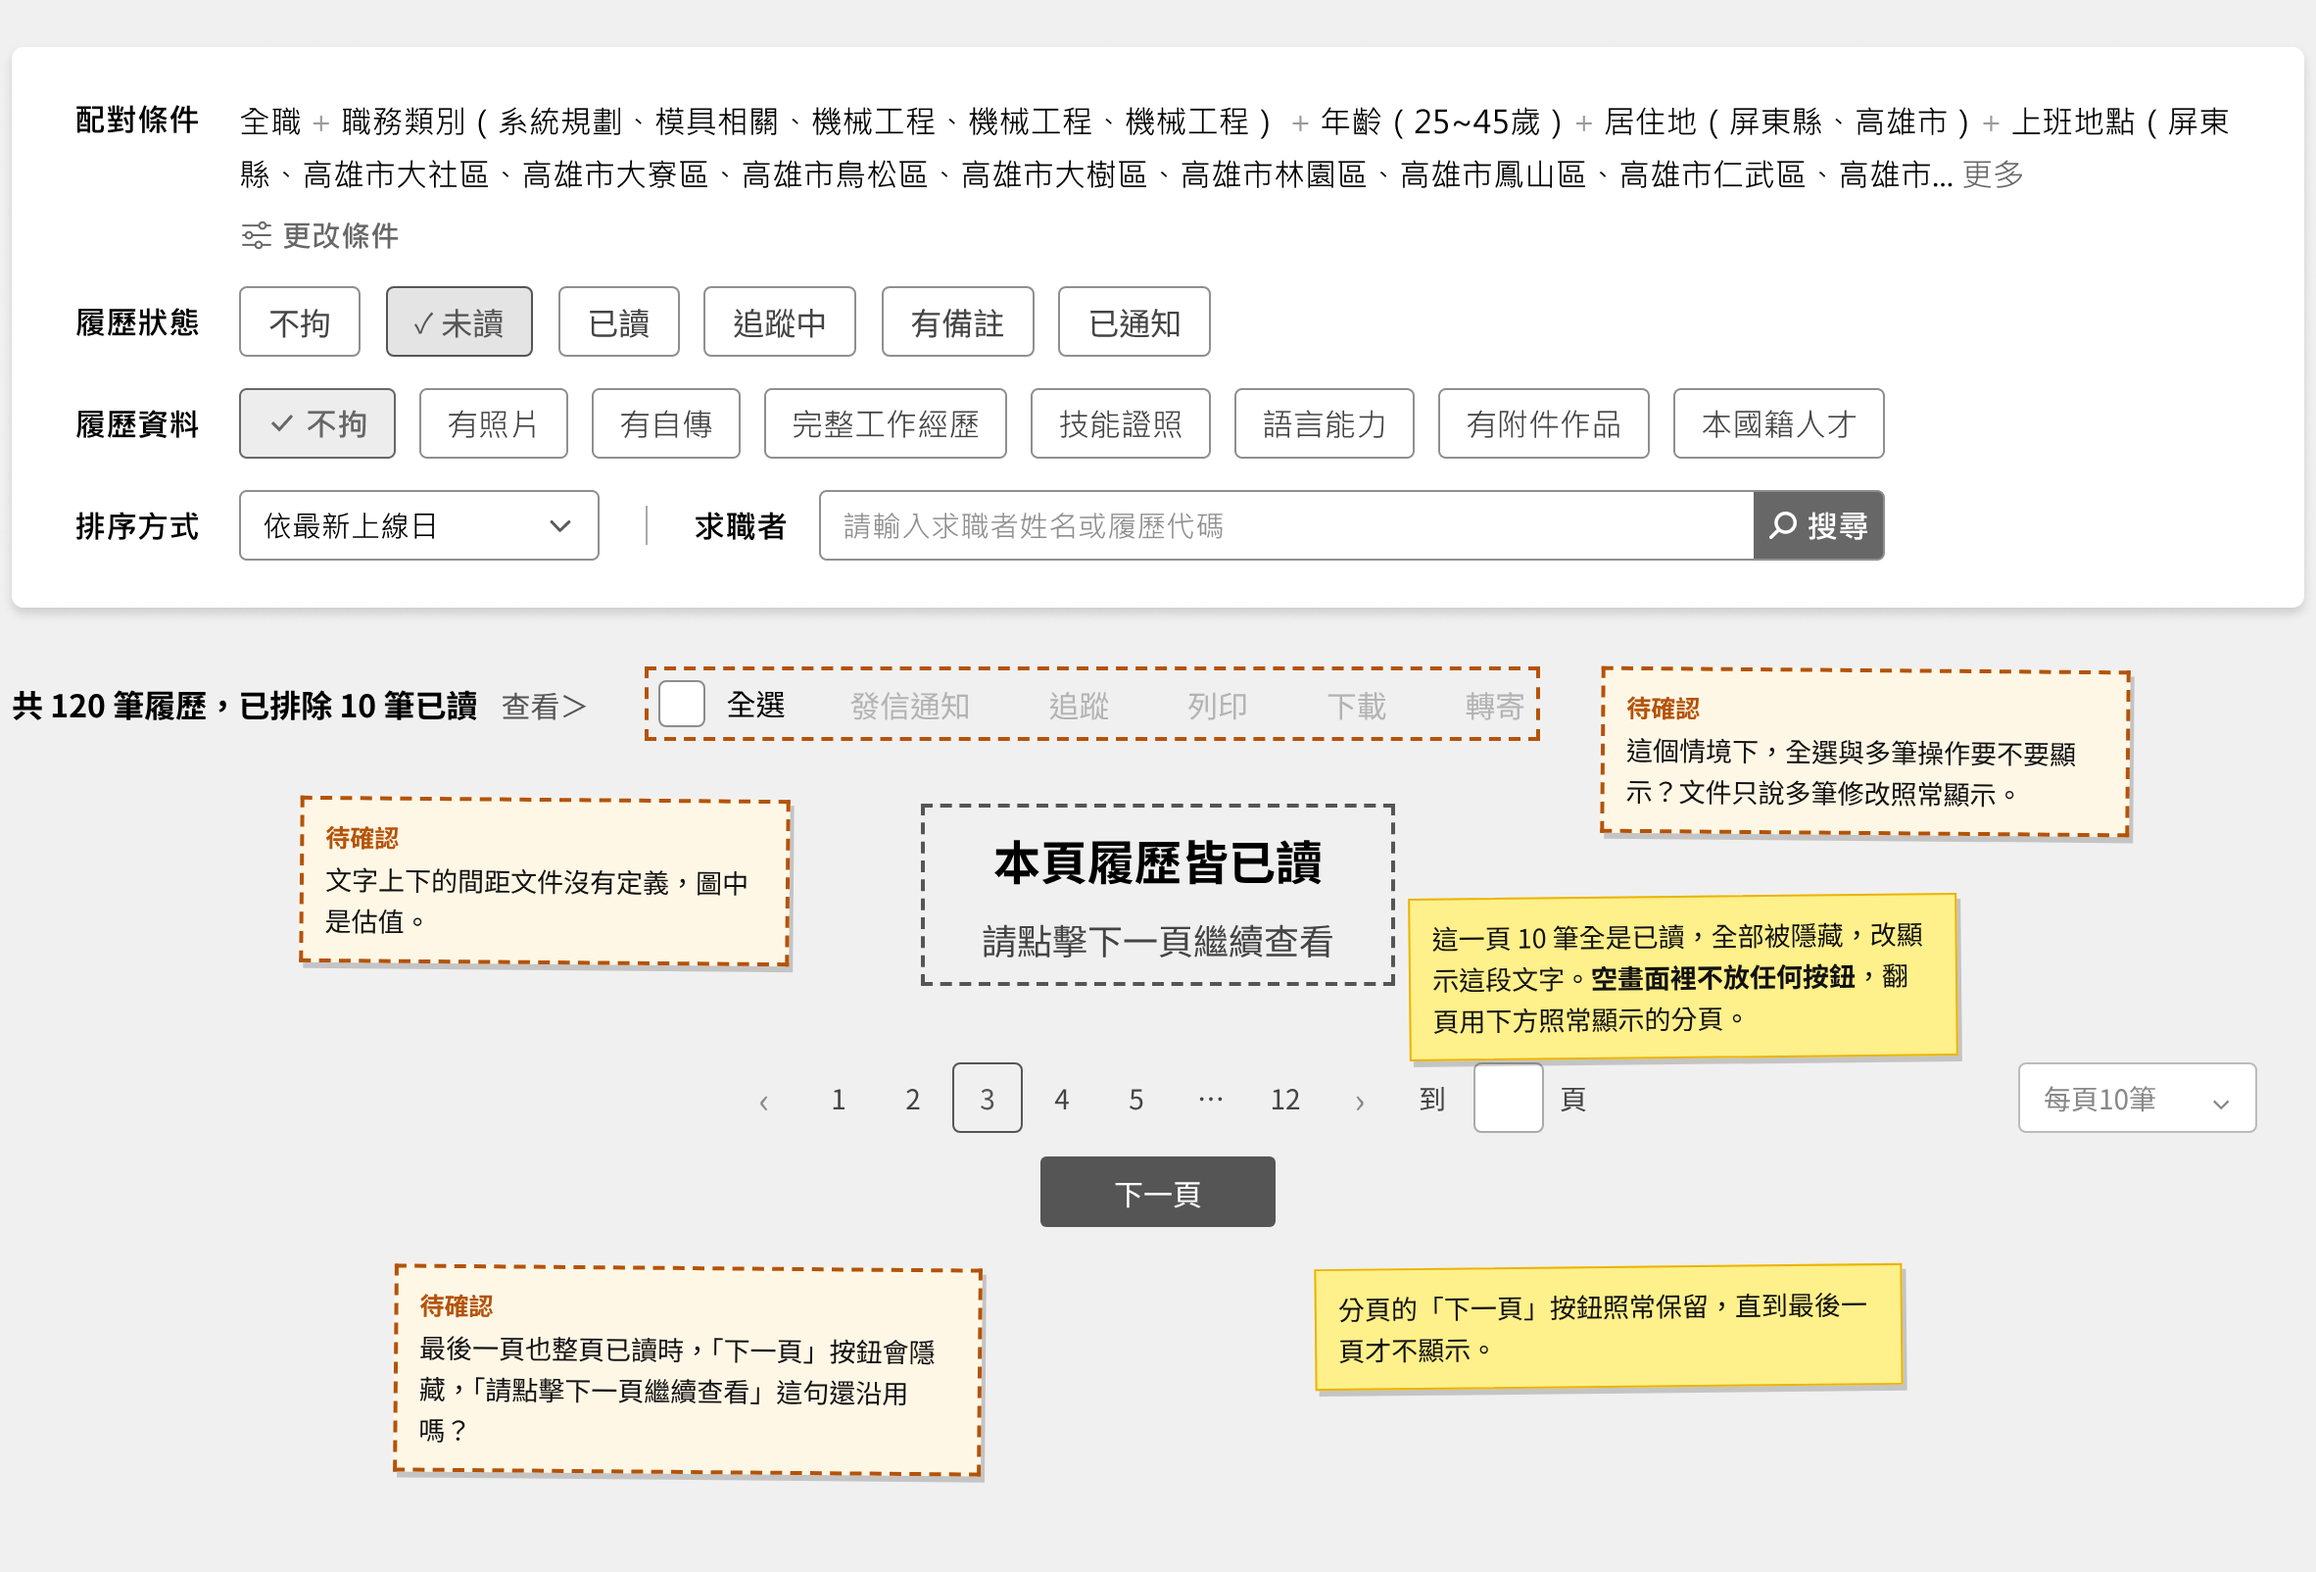
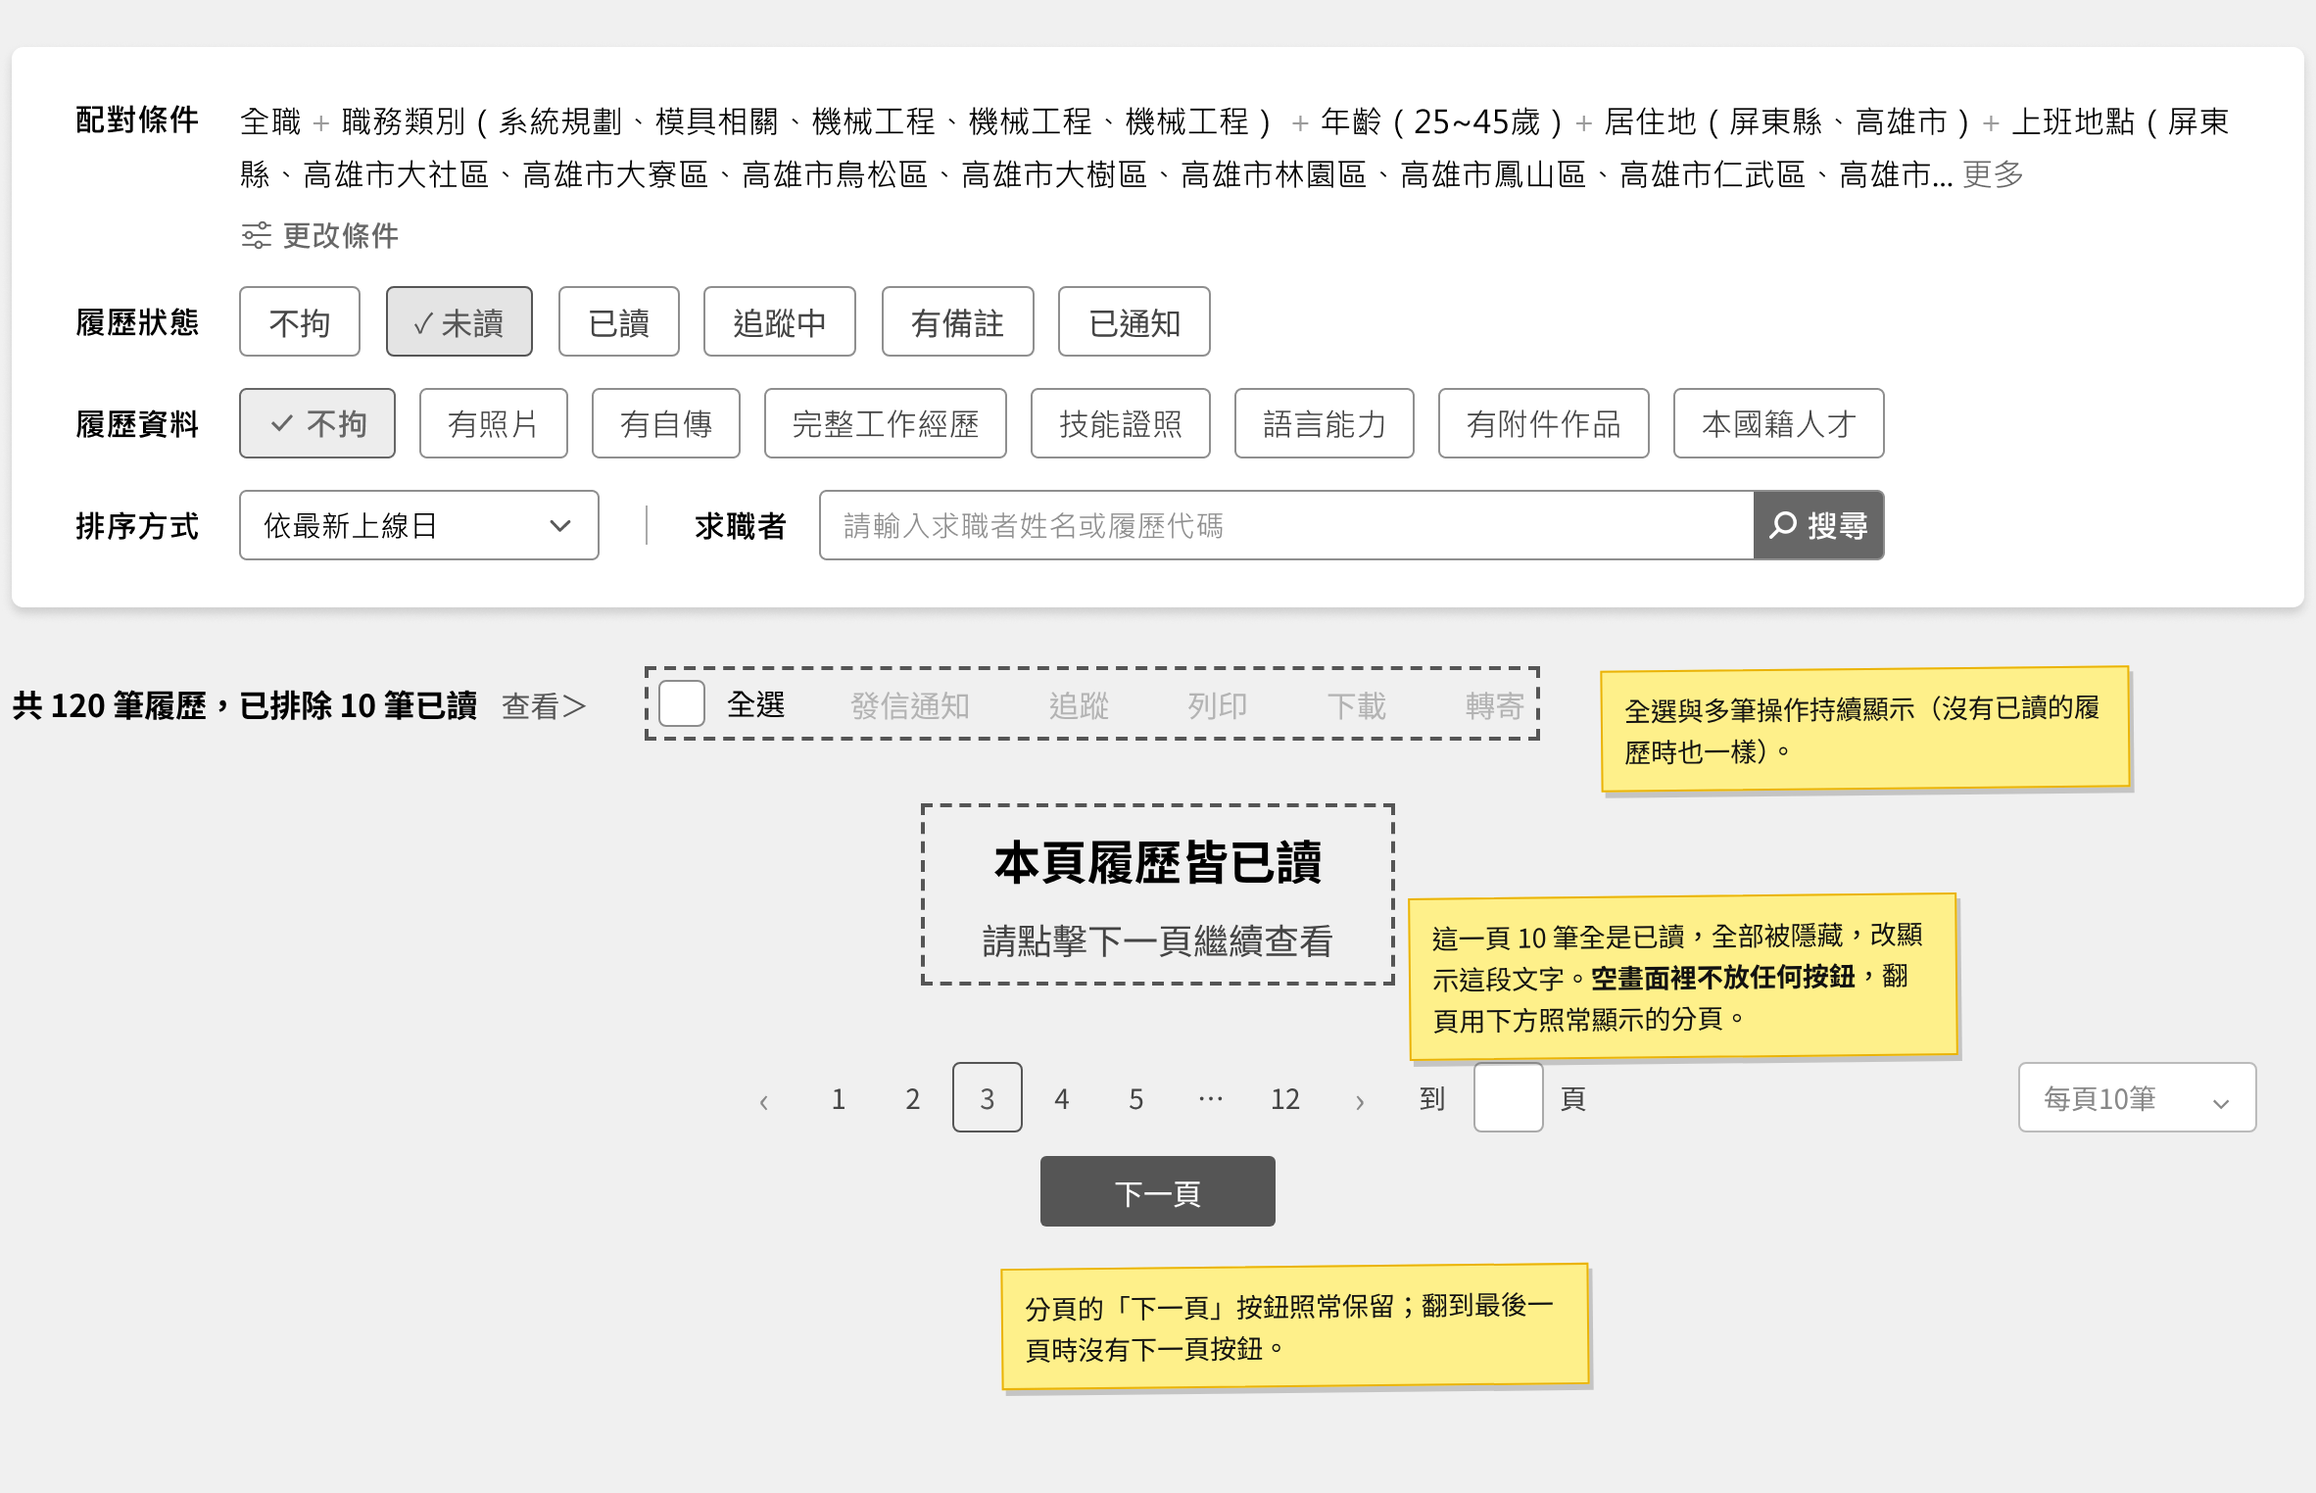
E320 wireframe: resolve remaining pending items into notes; skill: spacing is UIUX's call, default-visible rule
Claude-Session: https://claude.ai/code/session_01WDKHLDHNQtrz6oez35c7ma

diff --git a/handoff/wireframes/E320_unread/index.html b/handoff/wireframes/E320_unread/index.html
@@ -197,13 +197,11 @@
         {a:'sum', side:'below', dx:120, dy:30, w:290, t:'這一頁沒有已讀時，照樣顯示「已排除 0 筆已讀」，「查看＞」一樣可以點。版面與「選未讀」的情境相同。'}
       ] },
     { id:'allread', title:'選「未讀」，這一頁全部都是已讀（後面還有其他頁）',
-      html: function(){ return panel(1)+toolbar({read:true,N:120,M:10,hl:['unk']})+empty('b',40)+'<div style="height:24px"></div>'+pager(3)+'<div style="height:130px"></div>'; },
+      html: function(){ return panel(1)+toolbar({read:true,N:120,M:10,hl:['ops']})+empty('b',40)+'<div style="height:24px"></div>'+pager(3)+'<div style="height:90px"></div>'; },
       notes: [
-        {a:'ops', side:'right', dx:24, dy:-6, w:270, q:1, t:'這個情境下，全選與多筆操作要不要顯示？文件只說多筆修改照常顯示。'},
+        {a:'ops', side:'right', dx:24, dy:-6, w:270, t:'全選與多筆操作持續顯示（沒有已讀的履歷時也一樣）。'},
         {a:'empty-b', side:'right', dx:0, dy:40, w:280, t:'這一頁 10 筆全是已讀，全部被隱藏，改顯示這段文字。<b>空畫面裡不放任何按鈕</b>，翻頁用下方照常顯示的分頁。'},
-        {a:'empty-b', side:'left', dx:-60, dy:-10, w:250, q:1, t:'文字上下的間距文件沒有定義，圖中是估值。'},
-        {a:'next', side:'below', dx:140, dy:6, w:300, t:'分頁的「下一頁」按鈕照常保留，直到最後一頁才不顯示。'},
-        {a:'next', side:'below', dx:-330, dy:6, w:300, q:1, t:'最後一頁也整頁已讀時，「下一頁」按鈕會隱藏，「請點擊下一頁繼續查看」這句還沿用嗎？'}
+        {a:'next', side:'below', dx:-20, dy:6, w:300, t:'分頁的「下一頁」按鈕照常保留；翻到最後一頁時沒有下一頁按鈕。'},
       ] },
     { id:'reset', title:'點「查看＞」，回到全部履歷',
       html: function(){
@@ -215,7 +213,7 @@
       },
       notes: [
         {a:'tag', side:'right', dx:430, dy:-40, w:270, t:'點「查看＞」＝取消「未讀」：履歷狀態回到「不拘」，多筆修改回到「共 120 筆履歷」，已讀履歷重新出現。'},
-        {a:'sum', side:'below', dx:120, dy:30, w:290, q:1, t:'還原後停在第幾頁？其他篩選條件要不要保留？'}
+        {a:'sum', side:'below', dx:120, dy:30, w:290, t:'還原後，其他篩選條件保留，頁數停留在原頁。'}
       ] },
     { id:'compare', title:'兩種空畫面的差別',
       html: function(){

diff --git a/.claude/skills/lofi-wireframer/SKILL.md b/.claude/skills/lofi-wireframer/SKILL.md
@@ -75,10 +75,12 @@ description: >
 
 ### 4.4 空畫面／空白區處理
 - 規格定義為「不顯示」的區塊（例：空畫面不顯示卡片），**就讓它空著，不要用淡色圖片「示意位置」補**（使用者明確要求移除）。需要說明就貼便利貼。
-- 規格未定義的間距／是否顯示，**不自行決定**：虛線框標出＋橘色待確認便利貼。
+- 規格未定義的**是否顯示／行為**，**不自行決定**：虛線框標出＋橘色待確認便利貼。
+- **間距、字級、字重、元件樣式細節由 UIUX 設計師掌控**，線框圖用估值即可，**不列待確認、不寫成便利貼**。
 - 並排對照（a／b）時各欄寬度不同，示意圖用 `width:100%` 縮放，不寫死像素。
 
 ### 4.4a 用詞與便利貼內容（使用者回饋累積）
+- **功能區塊預設持續顯示**：除非規格明說不顯示，否則「是否顯示」不要當成待確認（例：空畫面時全選與多筆操作仍持續顯示）。
 - **區塊名稱一律用文件原本的名稱**（例：「多筆修改」「多筆操作」），不要自己取「摘要」「摘要文字」這類名稱；不確定文件怎麼叫就先問，不要自創。
 - **只改一個地方的捲動／浮動行為**（例：往下捲動後多筆操作變成固定在頁面上方）**不另外畫一張圖**，寫在該區塊的便利貼裡即可。
 - **樣式已有既有元件可參照**時，便利貼直接寫「參考○○列表的樣式」，不要列成待確認。
